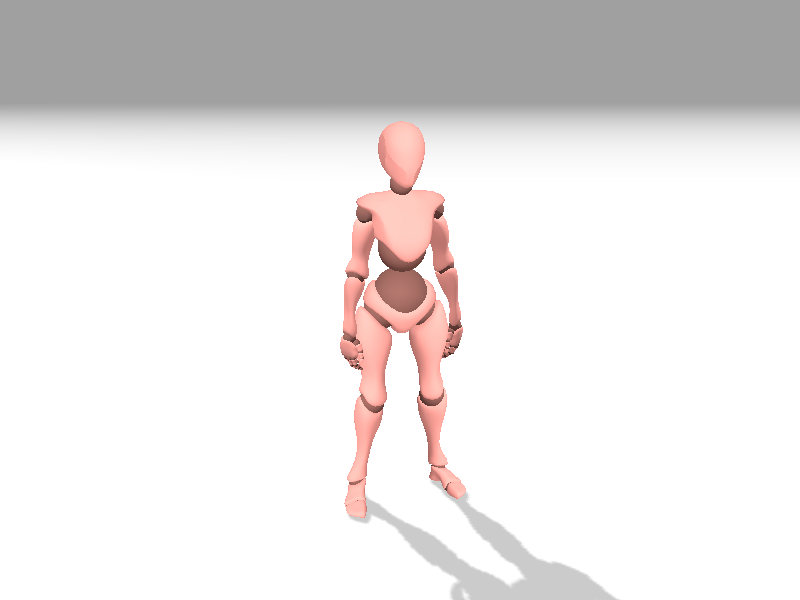
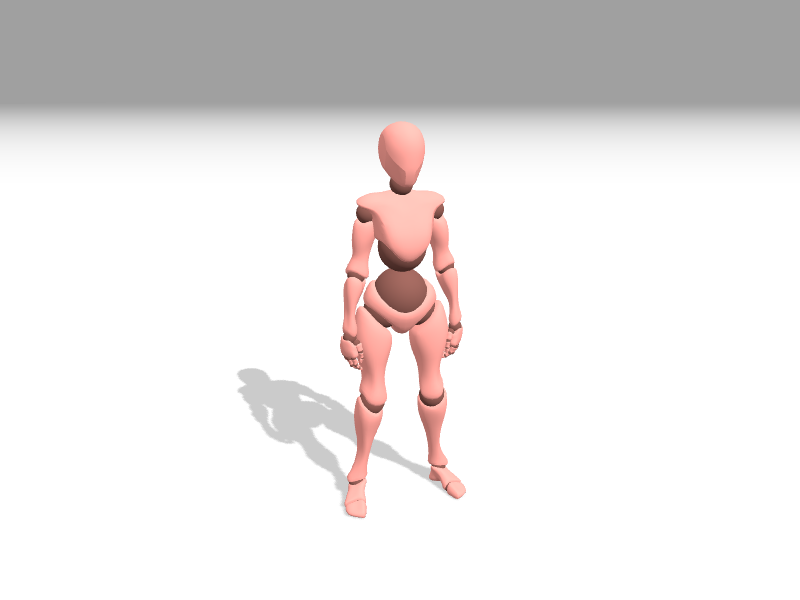
Examples: Improved webgl_animation_skinning_additive_blending lighting.

Changed region(s): [[0.2812, 0.33, 0.7812, 1.0], [0.4688, 0.21, 0.5312, 0.33]]

diff --git a/examples/webgl_animation_skinning_additive_blending.html b/examples/webgl_animation_skinning_additive_blending.html
@@ -72,7 +72,7 @@
 				scene.add( hemiLight );
 
 				var dirLight = new THREE.DirectionalLight( 0xffffff );
-				dirLight.position.set( - 3, 10, - 10 );
+				dirLight.position.set( 3, 10, 10 );
 				dirLight.castShadow = true;
 				dirLight.shadow.camera.top = 2;
 				dirLight.shadow.camera.bottom = - 2;
